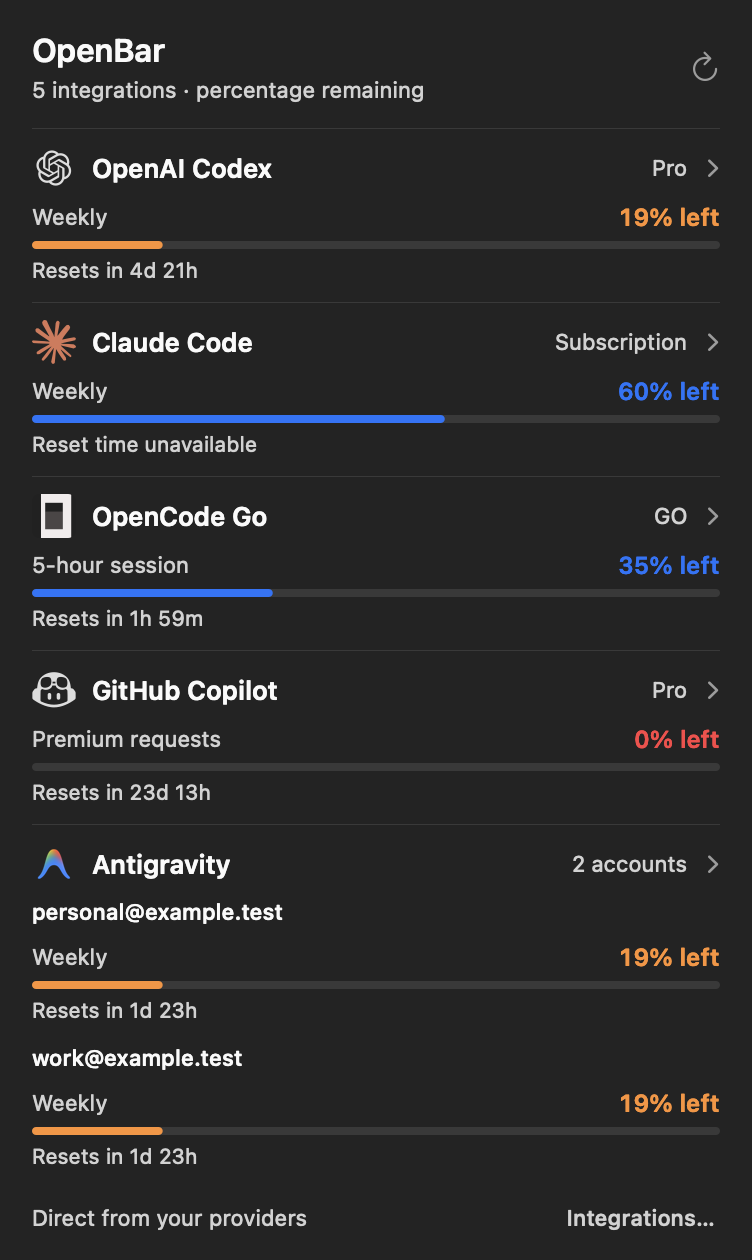
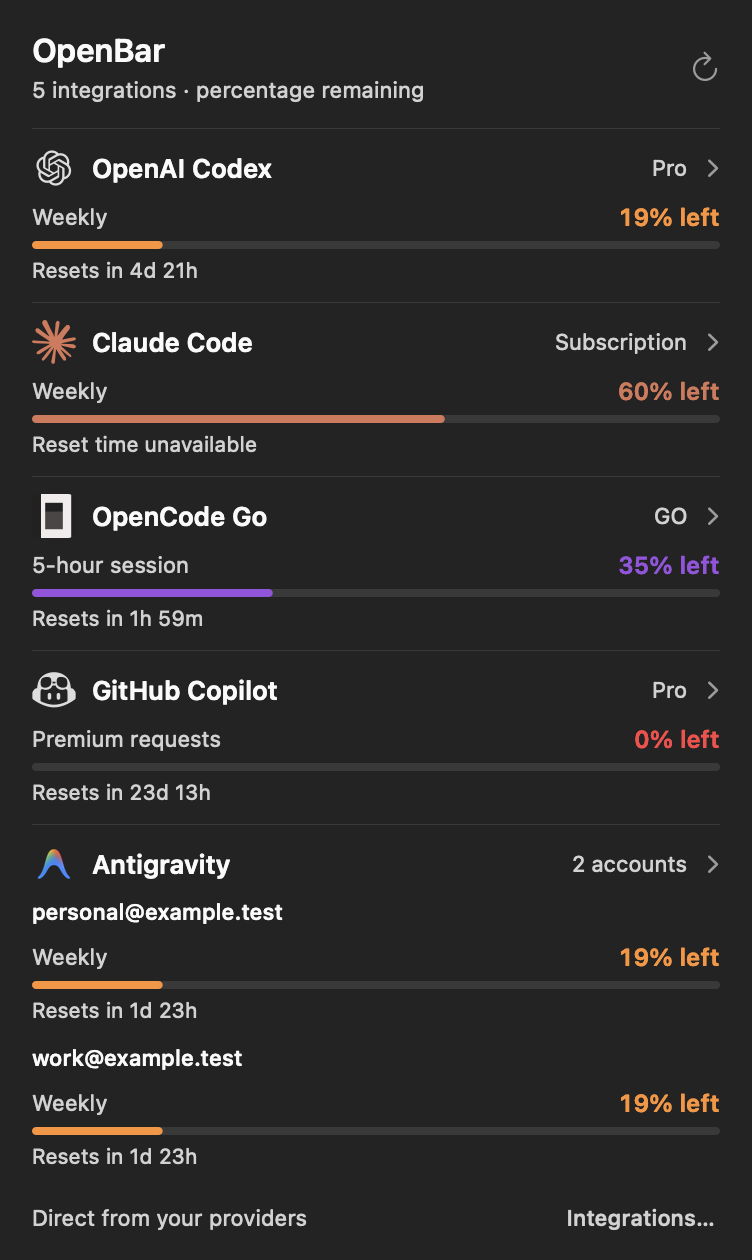
feat(ui): add brand-colored progress bars per integration

diff --git a/Sources/OpenBar/UsagePopoverViewController.swift b/Sources/OpenBar/UsagePopoverViewController.swift
@@ -308,7 +308,7 @@ private final class AccountQuotaView: NSStackView {
         statusLabel.isHidden = status?.message == nil && status?.isRefreshing != true
         statusLabel.stringValue = status?.isRefreshing == true ? "Refreshing…" : "Cached"
         statusLabel.toolTip = status?.message
-        summary.update(provider.limitingWindow, mode: mode)
+        summary.update(provider.limitingWindow, mode: mode, integration: provider.integration)
         details.isHidden = !expanded
         if expanded {
             while detailRows.count < provider.limits.count {
@@ -319,7 +319,7 @@ private final class AccountQuotaView: NSStackView {
             }
             for (index, row) in detailRows.enumerated() {
                 row.isHidden = index >= provider.limits.count
-                if index < provider.limits.count { row.update(provider.limits[index], mode: mode) }
+                if index < provider.limits.count { row.update(provider.limits[index], mode: mode, integration: provider.integration) }
             }
         }
         summary.isHidden = expanded
@@ -389,12 +389,12 @@ private final class LimitQuotaView: NSStackView {
 
     required init?(coder: NSCoder) { nil }
 
-    func update(_ limit: ProviderLimit, mode: UsageDisplayMode) {
+    func update(_ limit: ProviderLimit, mode: UsageDisplayMode, integration: IntegrationID? = nil) {
         let shown = mode == .used ? limit.usedPercent : limit.remainingPercent
         name.stringValue = limit.displayLabel
         name.toolTip = limit.displayLabel
         value.stringValue = String(format: "%.0f%% %@", shown, mode == .used ? "used" : "left")
-        let color = AppBranding.progressColor(forUsedPercent: Int(limit.usedPercent))
+        let color = AppBranding.progressColor(forUsedPercent: Int(limit.usedPercent), integration: integration)
         value.textColor = color
         bar.barColor = color
         bar.progress = shown

diff --git a/Sources/OpenBar/Branding.swift b/Sources/OpenBar/Branding.swift
@@ -32,10 +32,29 @@ enum AppBranding {
         return image
     }
 
-    /// Semantic progress color: accent at calm usage, orange/red as limits approach.
-    static func progressColor(forUsedPercent percent: Int) -> NSColor {
+    /// Integration brand color associated with the provider application.
+    static func brandColor(for integration: IntegrationID) -> NSColor {
+        switch integration {
+        case .codex:
+            return NSColor(srgbRed: 0x10 / 255.0, green: 0xA3 / 255.0, blue: 0x7F / 255.0, alpha: 1)
+        case .claude:
+            return NSColor(srgbRed: 0xD9 / 255.0, green: 0x77 / 255.0, blue: 0x57 / 255.0, alpha: 1)
+        case .openCodeGo:
+            return NSColor(srgbRed: 0x9B / 255.0, green: 0x51 / 255.0, blue: 0xE0 / 255.0, alpha: 1)
+        case .githubCopilot:
+            return NSColor(srgbRed: 0x58 / 255.0, green: 0xA6 / 255.0, blue: 0xFF / 255.0, alpha: 1)
+        case .antigravity:
+            return NSColor(srgbRed: 0x42 / 255.0, green: 0x85 / 255.0, blue: 0xF4 / 255.0, alpha: 1)
+        }
+    }
+
+    /// Semantic progress color: brand color (or default accent) at calm usage, orange/red as limits approach.
+    static func progressColor(forUsedPercent percent: Int, integration: IntegrationID? = nil) -> NSColor {
         if percent >= 90 { return criticalColor }
         if percent >= 80 { return warningColor }
+        if let integration = integration {
+            return brandColor(for: integration)
+        }
         return accentColor
     }
 

diff --git a/Sources/OpenBar/App.swift b/Sources/OpenBar/App.swift
@@ -119,7 +119,7 @@ final class OpenBarApp: NSObject, NSApplicationDelegate, NSPopoverDelegate {
         guard key != statusKey, let button = statusItem.button else { return }
         statusKey = key
         let state: StatusIconState = selected.map {
-            .usage(progress: (percent ?? 0) / 100, color: AppBranding.progressColor(forUsedPercent: Int($0.0.limitingWindow.usedPercent)))
+            .usage(progress: (percent ?? 0) / 100, color: AppBranding.progressColor(forUsedPercent: Int($0.0.limitingWindow.usedPercent), integration: $0.0.integration))
         } ?? .empty
         button.image = StatusIconRenderer.render(state, logo: AppBranding.logoImage)
         button.attributedTitle = NSAttributedString(string: text + (warning ? " ⚠" : ""), attributes: [
